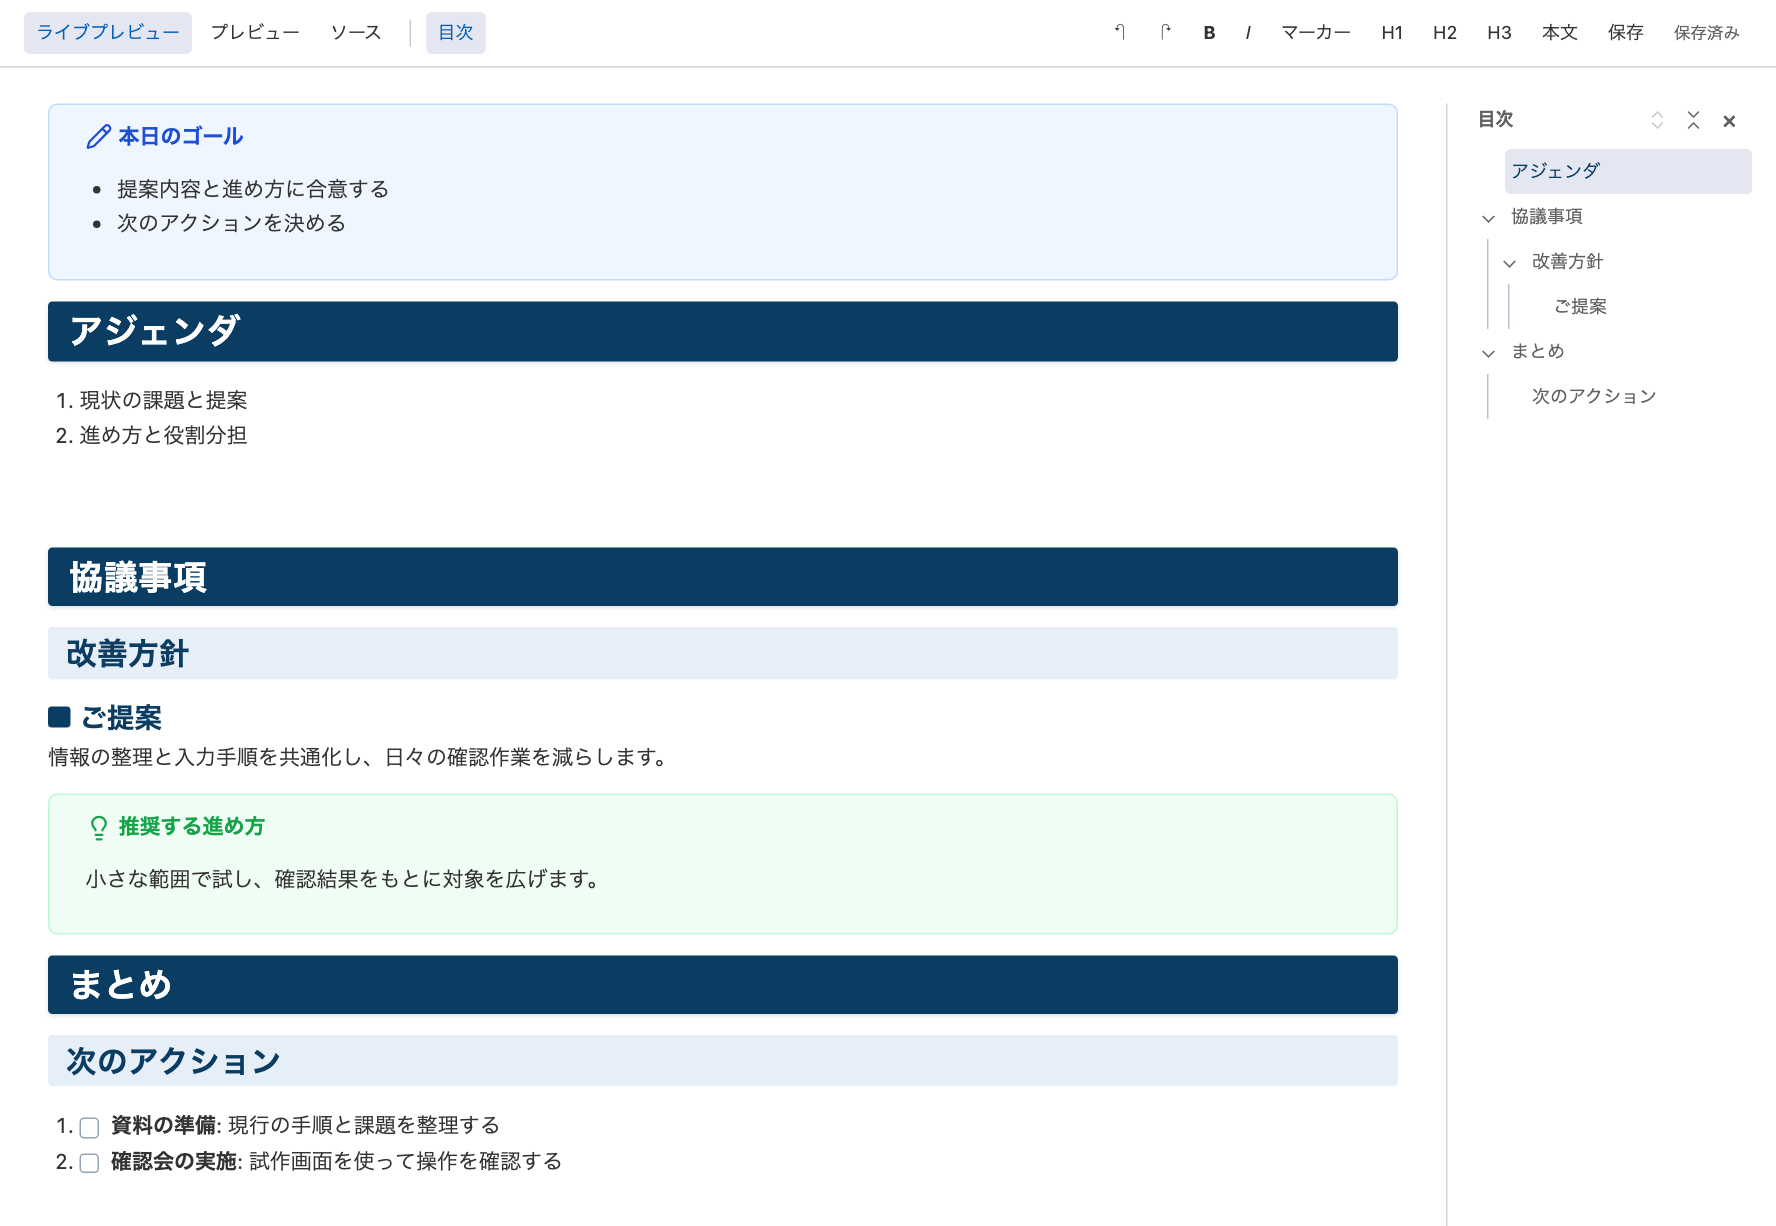
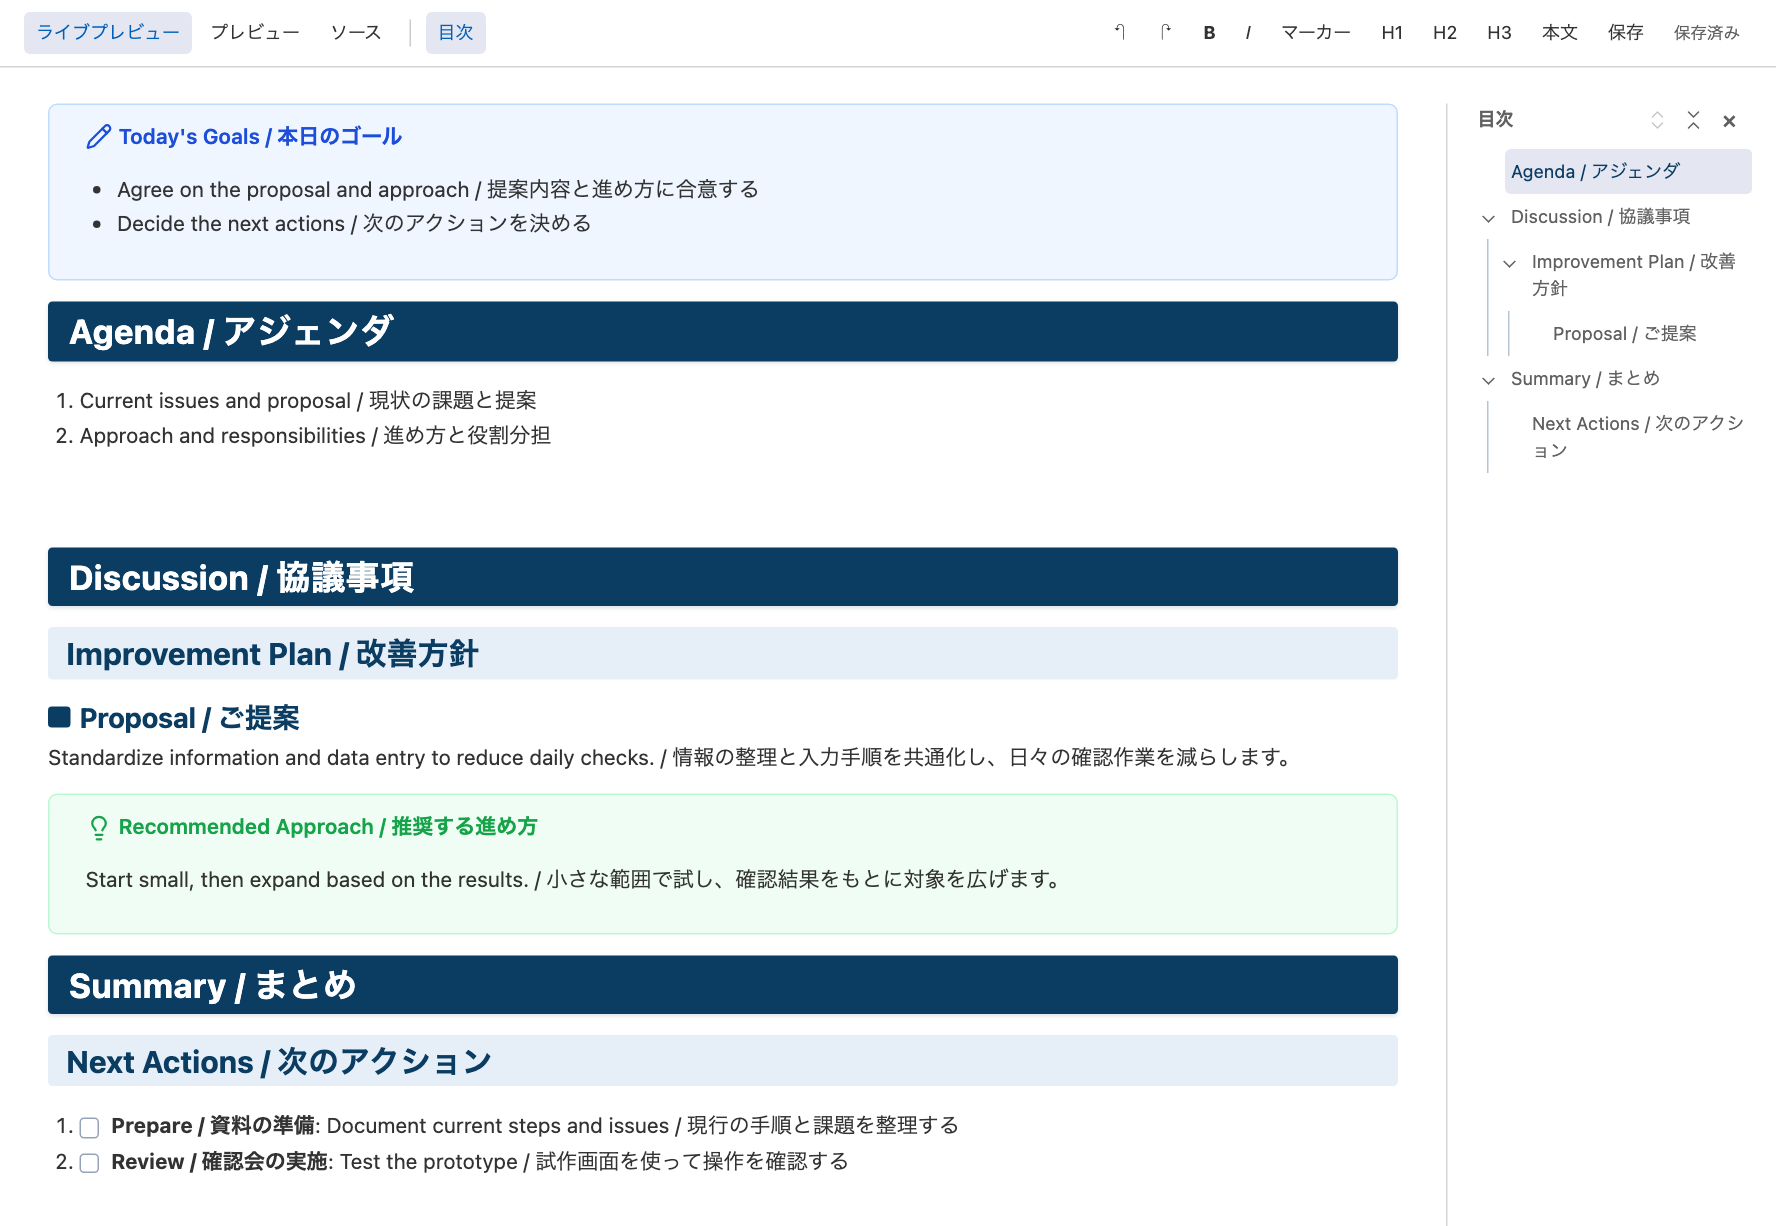
文書: プロパティと章の余白の画像を英日併記に統一

diff --git a/vendor/swak-theme/ui-meeting.md b/vendor/swak-theme/ui-meeting.md
@@ -1,26 +1,26 @@
-> [!NOTE] 本日のゴール
-> - 提案内容と進め方に合意する
-> - 次のアクションを決める
+> [!NOTE] Today's Goals / 本日のゴール
+> - Agree on the proposal and approach / 提案内容と進め方に合意する
+> - Decide the next actions / 次のアクションを決める
 
-# アジェンダ
+# Agenda / アジェンダ
 
-1. 現状の課題と提案
-2. 進め方と役割分担
+1. Current issues and proposal / 現状の課題と提案
+2. Approach and responsibilities / 進め方と役割分担
 
-# 協議事項
+# Discussion / 協議事項
 
-## 改善方針
+## Improvement Plan / 改善方針
 
-### ご提案
+### Proposal / ご提案
 
-情報の整理と入力手順を共通化し、日々の確認作業を減らします。
+Standardize information and data entry to reduce daily checks. / 情報の整理と入力手順を共通化し、日々の確認作業を減らします。
 
-> [!TIP] 推奨する進め方
-> 小さな範囲で試し、確認結果をもとに対象を広げます。
+> [!TIP] Recommended Approach / 推奨する進め方
+> Start small, then expand based on the results. / 小さな範囲で試し、確認結果をもとに対象を広げます。
 
-# まとめ
+# Summary / まとめ
 
-## 次のアクション
+## Next Actions / 次のアクション
 
-1. [ ] **資料の準備**: 現行の手順と課題を整理する
-2. [ ] **確認会の実施**: 試作画面を使って操作を確認する
+1. [ ] **Prepare / 資料の準備**: Document current steps and issues / 現行の手順と課題を整理する
+2. [ ] **Review / 確認会の実施**: Test the prototype / 試作画面を使って操作を確認する

diff --git a/vendor/swak-theme/ui-properties.md b/vendor/swak-theme/ui-properties.md
@@ -1,9 +1,9 @@
 ---
-name: project-notes
-description: 会議の目的と合意事項をまとめるノート。項目名と値を読み分けやすく表示し、長い説明文も省略せず確認できます。
-status: In progress
+name / 名前: project-notes / プロジェクトノート
+summary / 概要: Record meeting goals and decisions. Clear labels and values keep long descriptions readable without truncation. / 会議の目的と合意事項を記録します。項目名と値を読み分けやすく表示し、長い説明文も省略せず確認できます。
+status / 状態: In progress / 進行中
 ---
 
-# プロジェクトノート
+# Project Notes / プロジェクトノート
 
-概要を確認してから、次のアクションを整理します。
+Review the overview, then plan the next actions. / 概要を確認してから、次のアクションを整理します。
